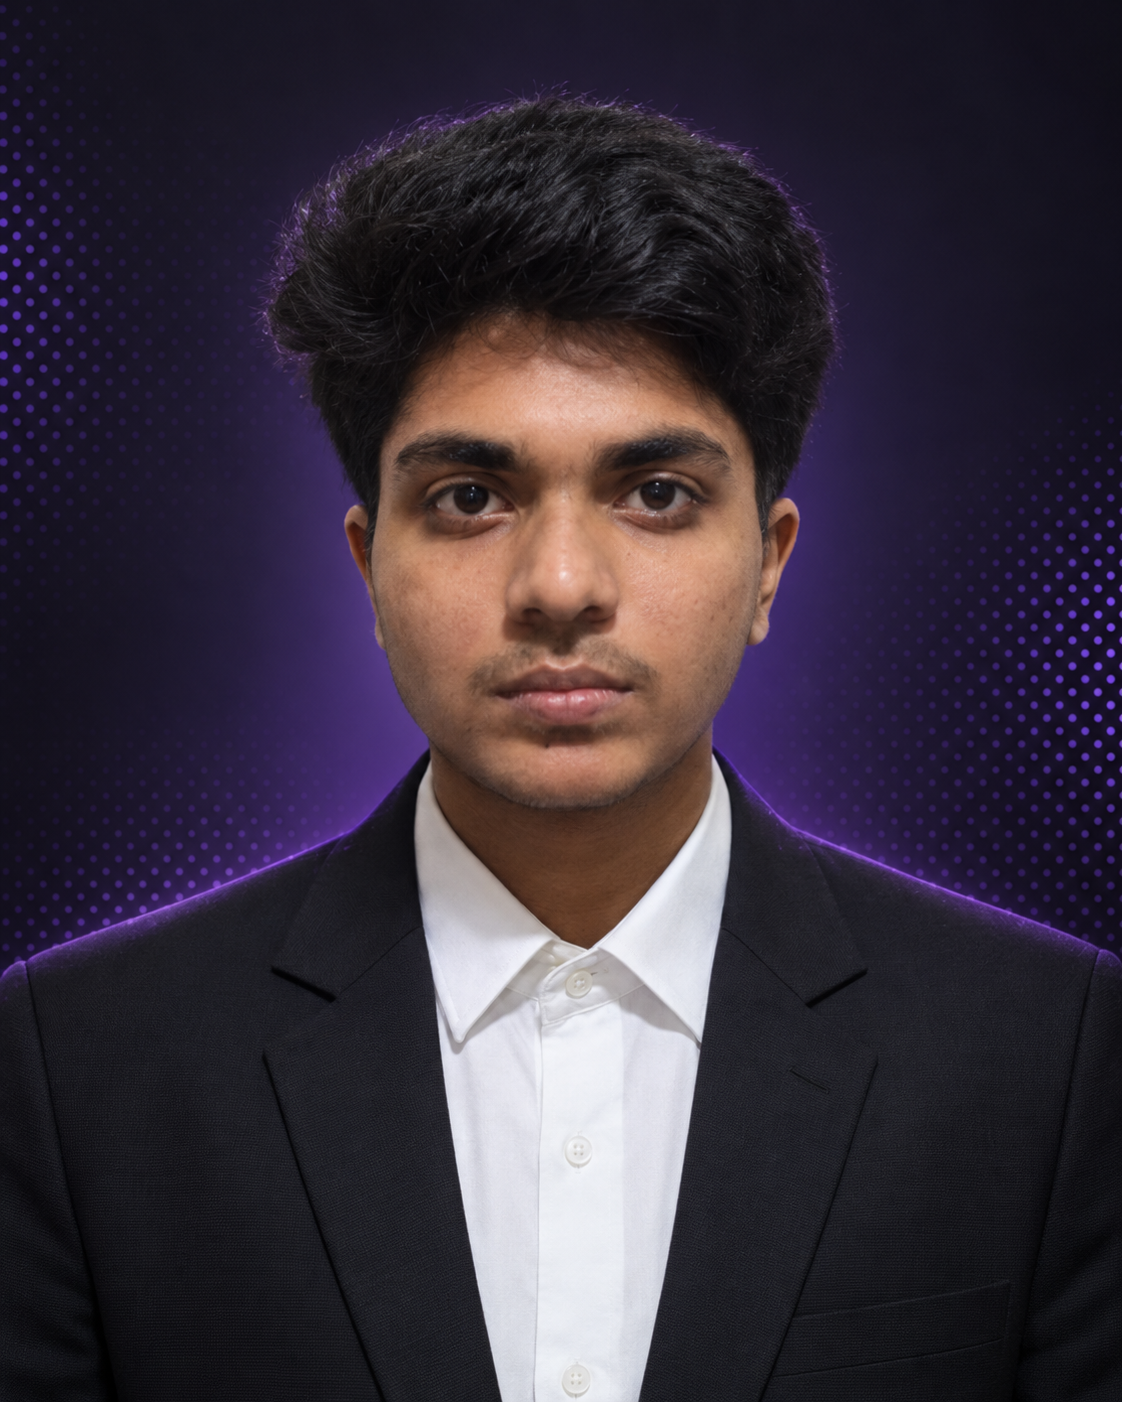
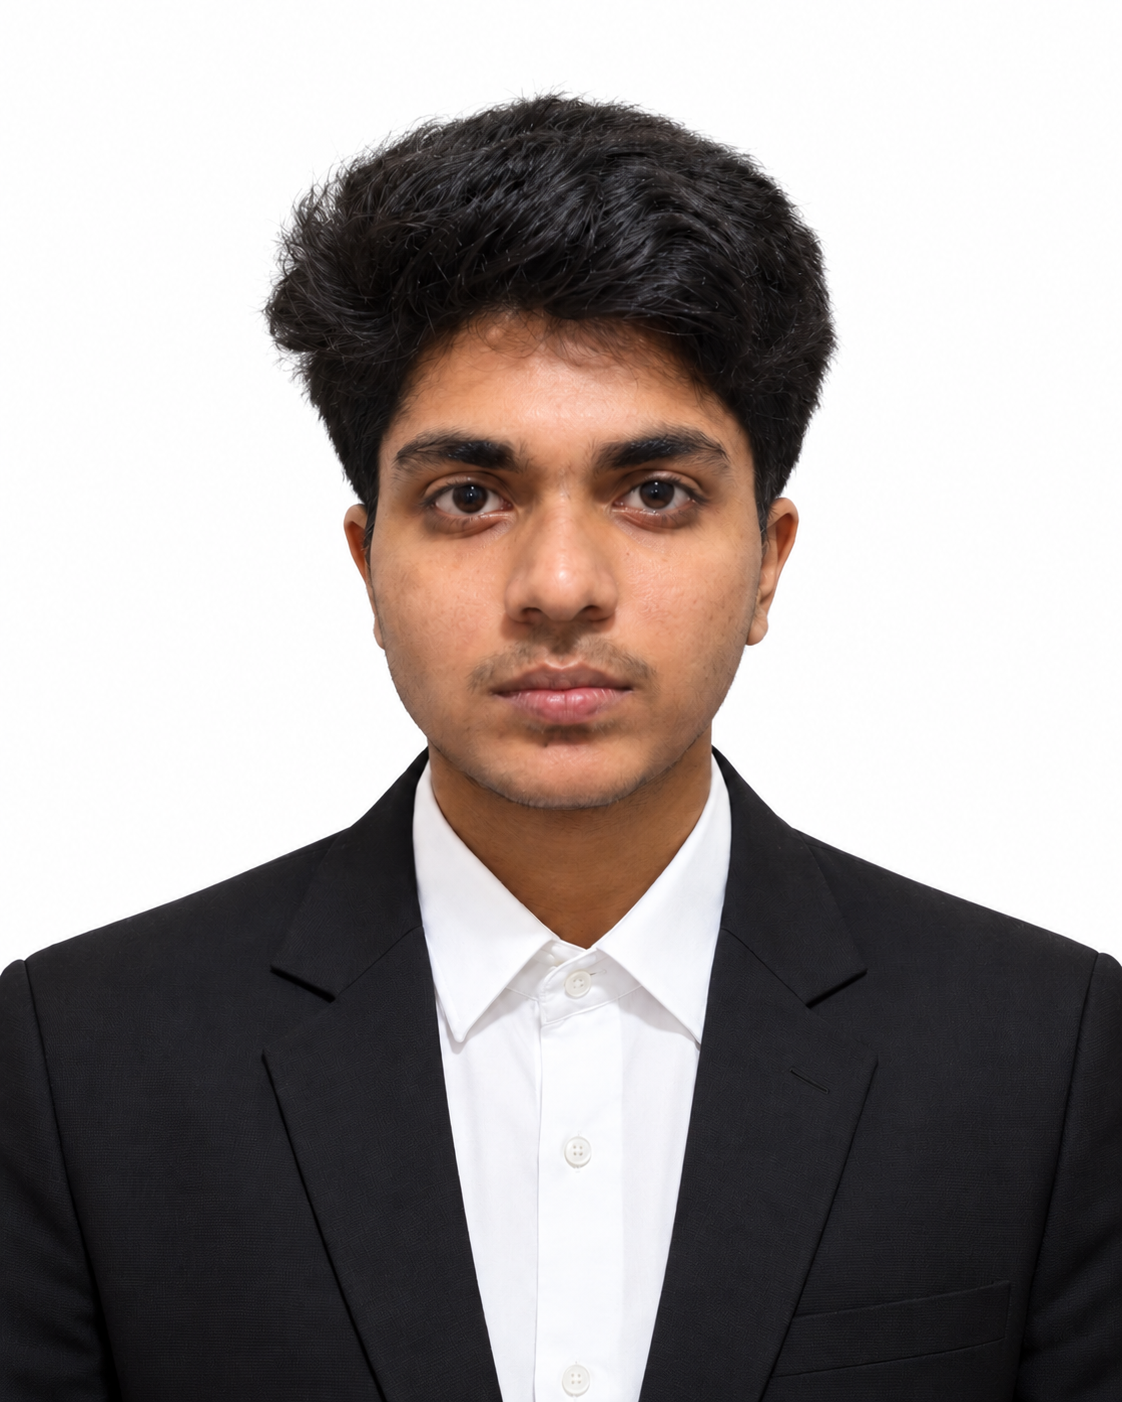
Refresh profile with starlight theme and current public projects

diff --git a/scripts/render_galaxy.py b/scripts/render_galaxy.py
@@ -1,0 +1,27 @@
+"""Export the generated galaxy as a GitHub avatar and a seamless README loop."""
+from pathlib import Path
+from math import sin, tau
+from PIL import Image, ImageEnhance
+
+assets = Path(__file__).resolve().parents[1] / "assets"
+source = Image.open(assets / "galaxy.png").convert("RGB")
+assert source.width == source.height, "Galaxy source must be square"
+source.resize((500, 500), Image.Resampling.LANCZOS).save(
+    assets / "galaxy-avatar.jpg", quality=94, optimize=True
+)
+assert (assets / "galaxy-avatar.jpg").stat().st_size < 1_000_000
+
+# Keep the star field inside the frame throughout a full rotation.
+canvas = Image.new("RGB", (360, 360), "black")
+canvas.paste(source.resize((270, 270), Image.Resampling.LANCZOS), (45, 45))
+frames = []
+for index in range(120):
+    frame = canvas.rotate(-3 * index, Image.Resampling.BICUBIC, fillcolor="black")
+    frame = ImageEnhance.Brightness(frame).enhance(1 + 0.06 * sin(tau * index / 60))
+    frames.append(frame.resize((280, 280), Image.Resampling.LANCZOS))
+frames[0].save(assets / "galaxy-spin.gif", save_all=True,
+               append_images=frames[1:], duration=100, loop=0, optimize=True)
+with Image.open(assets / "galaxy-spin.gif") as animation:
+    assert animation.n_frames == 120 and animation.info["loop"] == 0
+    assert animation.size == (280, 280)
+print("Verified: 500px avatar under 1 MB; 120-frame, 12-second looping galaxy")

diff --git a/README.md b/README.md
@@ -1,134 +1,103 @@
-<!-- ═══════════════════════ HEADER ═══════════════════════ -->
-<picture>
-  <source media="(prefers-color-scheme: dark)" srcset="https://capsule-render.vercel.app/api?type=waving&color=0:0D0117%2C45:3C096C%2C75:7B2FF7%2C100:C77DFF&height=230&section=header&text=LOKTRISHAL%20K&fontSize=62&fontColor=F3E8FF&fontAlignY=36&animation=twinkling&desc=AI%20%E2%80%A2%20Data%20Science%20%E2%80%A2%20Full%20Stack&descSize=18&descAlignY=56&descAlign=50">
-  <source media="(prefers-color-scheme: light)" srcset="https://capsule-render.vercel.app/api?type=waving&color=0:F3E8FF%2C50:C77DFF%2C100:7B2FF7&height=230&section=header&text=LOKTRISHAL%20K&fontSize=62&fontColor=240046&fontAlignY=36&animation=twinkling&desc=AI%20%E2%80%A2%20Data%20Science%20%E2%80%A2%20Full%20Stack&descSize=18&descAlignY=56&descAlign=50">
-  <img width="100%" alt="Loktrishal K banner" src="https://capsule-render.vercel.app/api?type=waving&color=0:0D0117,45:3C096C,75:7B2FF7,100:C77DFF&height=230&section=header&text=LOKTRISHAL%20K&fontSize=62&fontColor=F3E8FF&fontAlignY=36&animation=twinkling&desc=AI%20%E2%80%A2%20Data%20Science%20%E2%80%A2%20Full%20Stack&descSize=18&descAlignY=56&descAlign=50">
-</picture>
+<p align="center">
+  <img src="./assets/hero.png" width="100%" alt="Loktrishal K — AI, Data Science and Full Stack. A luminous white spiral galaxy against deep space.">
+</p>
 
 <div align="center">
 
-<h1>Hey there, I'm Loktrishal <img src="https://media.giphy.com/media/hvRJCLFzcasrR4ia7z/giphy.gif" width="34"></h1>
+### Building intelligent systems. Making complex data useful.
 
-<a href="https://git.io/typing-svg"><img src="https://readme-typing-svg.demolab.com?font=Fira+Code&weight=600&size=22&duration=3000&pause=800&color=C77DFF&center=true&vCenter=true&width=620&lines=AI+%26+Data+Science+Engineer+%F0%9F%A4%96;Data+Visualization+%26+Analytical+Modeling+%F0%9F%93%8A;Full+Stack+Developer+%F0%9F%8C%90;Building+intelligent%2C+data-driven+systems+%E2%9A%A1;Arise.+Level+up.+Repeat.+%F0%9F%94%A5" alt="Typing SVG" /></a>
+AI & Data Science Engineer · Full Stack Developer · Chennai, India
 
-<br/>
+[Portfolio](https://loktrishal-portfolio.vercel.app) · [LinkedIn](https://www.linkedin.com/in/loktrishal-k-230294376/) · [Email](mailto:loktrishal.k@gmail.com)
 
-<a href="https://github.com/loktrishal-05?tab=followers"><img src="https://img.shields.io/github/followers/loktrishal-05?label=Followers&style=for-the-badge&logo=github&color=7B2FF7&labelColor=0D0117" /></a>
-<a href="https://github.com/loktrishal-05?tab=repositories"><img src="https://img.shields.io/github/stars/loktrishal-05?label=Stars&style=for-the-badge&logo=apachespark&logoColor=white&color=9D4EDD&labelColor=0D0117" /></a>
-<img src="https://komarev.com/ghpvc/?username=loktrishal-05&label=Profile%20Views&style=for-the-badge&color=C77DFF&labelColor=0D0117" />
-<img src="https://img.shields.io/badge/Chennai-India-E0AAFF?style=for-the-badge&logo=googlemaps&logoColor=white&labelColor=0D0117" />
+<a href="https://github.com/loktrishal-05?tab=repositories"><img src="https://img.shields.io/badge/Explore_my_work-0B1018?style=for-the-badge&logo=github&logoColor=F1F5F9" alt="Explore my repositories"></a>
+<a href="https://github.com/loktrishal-05?tab=followers"><img src="https://img.shields.io/github/followers/loktrishal-05?label=Followers&style=for-the-badge&color=7DD3FC&labelColor=0B1018" alt="GitHub followers"></a>
 
 </div>
 
-<!-- ═══════════════════════ ABOUT ═══════════════════════ -->
-## <img src="https://media.giphy.com/media/VgCDAzcKvsR6OM0uWg/giphy.gif" width="28"> About Me
+---
+
+## About me
 
 <table>
 <tr>
-<td width="65%" valign="top">
+<td width="70%" valign="top">
 
-```python
-class Loktrishal:
-    role       = "AI & Data Science Engineer"
-    location   = "Chennai, India 🇮🇳"
-    focus      = ["Machine Learning", "Data Visualization", "Full Stack"]
-    building   = ["Unara — privacy-first safety detection",
-                  "SnapWorkflow — dev workflow automation"]
-    toolkit    = ["Python", "TypeScript", "Flutter", "Power BI"]
-    motto      = "Arise. Build. Ship. Repeat."
-```
+I build AI-powered applications that connect models, data and usable interfaces. My work spans healthcare demos, agricultural agents, scientific data analysis and evidence-based decision support.
 
-- 🤖 Turning raw data into **intelligent, data-driven systems**
-- 📊 Deep into **data visualization & analytical modeling**
-- 🌐 Shipping **full stack** apps — from edge devices to dashboards
-- 🔐 Interested in **privacy-first & secure** system design
-- ⚡ Fun fact: I level up one commit at a time
+- **AI & data:** machine learning, computer vision, analytical modeling and visualization.
+- **Full stack:** Python APIs, TypeScript interfaces and database-backed applications.
+- **Engineering focus:** privacy, traceable evidence and human oversight.
+- **Recent public work:** KinSight, Solarda and ExoDetect.
+
+I care about making systems understandable: what the model knows, where the data came from, and when a person should make the decision.
 
 </td>
-<td width="35%" align="center" valign="middle">
-
-<img src="./assets/portrait.png" alt="Portrait of Loktrishal K with a subtle purple halftone background" width="100%">
-
+<td width="30%" align="center" valign="middle">
+<img src="./assets/portrait.png" width="100%" alt="Loktrishal K in a black suit and white shirt against a clean white background">
 </td>
 </tr>
 </table>
 
-<!-- ═══════════════════════ TECH STACK ═══════════════════════ -->
-## <img src="https://media.giphy.com/media/iY8CRBdQXODJSCERIr/giphy.gif" width="28"> Tech Stack
+## Selected work
 
-<div align="center">
-
-**Languages & Frameworks**
-
-<img src="https://skillicons.dev/icons?i=python,ts,js,html,css,dart,flutter,react,nextjs,nodejs,tailwind,threejs&theme=dark&perline=12" />
-
-**AI · Data · ML**
-
-<img src="https://skillicons.dev/icons?i=tensorflow,pytorch,sklearn,opencv,fastapi,flask&theme=dark" />
-<br/>
-<img src="https://img.shields.io/badge/Power%20BI-F2C811?style=for-the-badge&logo=powerbi&logoColor=black" />
-<img src="https://img.shields.io/badge/Pandas-150458?style=for-the-badge&logo=pandas&logoColor=white" />
-<img src="https://img.shields.io/badge/NumPy-013243?style=for-the-badge&logo=numpy&logoColor=white" />
-<img src="https://img.shields.io/badge/Jupyter-F37626?style=for-the-badge&logo=jupyter&logoColor=white" />
-<img src="https://img.shields.io/badge/Gemini%20AI-8E75B2?style=for-the-badge&logo=googlegemini&logoColor=white" />
-
-**Databases · Cloud · Tools**
-
-<img src="https://skillicons.dev/icons?i=supabase,firebase,postgres,mysql,mongodb,docker,vercel,git,github,githubactions,vscode,figma&theme=dark&perline=12" />
-
-</div>
-
-<!-- ═══════════════════════ PROJECTS ═══════════════════════ -->
-## <img src="https://media.giphy.com/media/WUlplcMpOCEmTGBtBW/giphy.gif" width="28"> Featured Projects
-
-<div align="center">
-
-| Project | What it does | Stack |
+| Project | Focus | Technologies |
 |:--|:--|:--|
-| 🛡 [**Unara**](https://github.com/loktrishal-05/unara) | Passive, privacy-first safety detection — edge + backend + dashboard + SOS app | ![Python](https://img.shields.io/badge/-Python-0D0117?logo=python&logoColor=C77DFF) |
-| ⚙ [**SnapWorkflow**](https://github.com/loktrishal-05/SnapWorkflow-backup) | Flutter app + Python daemon & CLI for workflow automation | ![Flutter](https://img.shields.io/badge/-Flutter-0D0117?logo=flutter&logoColor=C77DFF) |
-| 🏥 [**Sri Ambal Healthcare**](https://github.com/loktrishal-05/sri-ambal-healthcare) | Hospital SPA — appointments (Supabase), Gemini chatbot, WhatsApp confirmations | ![HTML](https://img.shields.io/badge/-HTML-0D0117?logo=html5&logoColor=C77DFF) |
-| 💳 [**SentinelPay**](https://github.com/loktrishal-05/sentinelpay) | Secure payments experience | ![TS](https://img.shields.io/badge/-TypeScript-0D0117?logo=typescript&logoColor=C77DFF) |
-| 🎓 [**EduNova**](https://github.com/loktrishal-05/EduNova) | Next-gen learning platform | ![TS](https://img.shields.io/badge/-TypeScript-0D0117?logo=typescript&logoColor=C77DFF) |
-| ✨ [**Portfolio**](https://github.com/loktrishal-05/loktrishal-portfolio) | 3D personal portfolio — Three.js + GSAP | ![Three.js](https://img.shields.io/badge/-Three.js-0D0117?logo=threedotjs&logoColor=C77DFF) |
+| [**KinSight**](https://github.com/loktrishal-05/kinsight) | Multilingual inherited-risk education and genetic-counselling navigation, built as a fictional healthcare demo. | Next.js · TypeScript |
+| [**Solarda**](https://github.com/loktrishal-05/Solar-Da) | Safety-gated farm agents, plant-disease vision and forecasting using replayed sensor data. | TypeScript · Python · Gemini |
+| [**ExoDetect**](https://github.com/loktrishal-05/exoplanet-detection) | Exoplanet candidate detection from noisy Kepler light curves for ISRO BAH 2026. | Python · XGBoost · ONNX |
+| [**Legal & Regulatory Assurance**](https://github.com/loktrishal-05/legal-compliance-regulatory-workbench) | Contract intelligence, regulatory change and evidence-bearing compliance workflows in development. | FastAPI · React · PostgreSQL |
+| [**eRTMAC-NWIS**](https://github.com/loktrishal-05/ertmac-nwis) | Nearby-well intelligence and advisory drilling support, demonstrated on synthetic data. | FastAPI · React · PostGIS · LangGraph |
+| [**Portfolio**](https://github.com/loktrishal-05/loktrishal-portfolio) | An interactive collection of my engineering and design work. | Three.js · GSAP · JavaScript |
 
-</div>
-
-<!-- ═══════════════════════ STATS ═══════════════════════ -->
-## <img src="https://media.giphy.com/media/fwbZnTftCXVocKzfxR/giphy.gif" width="28"> GitHub Analytics
+## Tools I work with
 
 <div align="center">
 
-<img height="170" src="https://github-readme-stats.vercel.app/api?username=loktrishal-05&show_icons=true&hide_border=true&bg_color=0D0117&title_color=C77DFF&icon_color=9D4EDD&text_color=E0AAFF&ring_color=C77DFF&rank_icon=github" />
-<img height="170" src="https://github-readme-stats.vercel.app/api/top-langs/?username=loktrishal-05&layout=compact&hide_border=true&bg_color=0D0117&title_color=C77DFF&text_color=E0AAFF&langs_count=8" />
+**Languages & interfaces**
 
-<img width="80%" src="https://streak-stats.demolab.com?user=loktrishal-05&hide_border=true&background=0D0117&ring=C77DFF&fire=9D4EDD&currStreakLabel=C77DFF&sideLabels=E0AAFF&currStreakNum=F3E8FF&sideNums=F3E8FF&dates=7B6A9B&stroke=3C096C" alt="GitHub Streak" />
+<img src="https://skillicons.dev/icons?i=python,ts,js,react,nextjs,tailwind,flutter&theme=dark&perline=7" alt="Python, TypeScript, JavaScript, React, Next.js, Tailwind CSS and Flutter">
 
-<img width="100%" src="https://raw.githubusercontent.com/loktrishal-05/loktrishal-05/output/cards/0-profile-details.svg" alt="Contribution Activity" />
+**Models, APIs & data**
 
-<!-- 3D contribution calendar — generated daily by .github/workflows/profile.yml -->
-<img width="100%" src="https://raw.githubusercontent.com/loktrishal-05/loktrishal-05/output/profile-3d-contrib/profile-purple.svg" alt="3D Contributions" />
+<img src="https://skillicons.dev/icons?i=pytorch,tensorflow,sklearn,opencv,fastapi,postgres&theme=dark&perline=6" alt="PyTorch, TensorFlow, scikit-learn, OpenCV, FastAPI and PostgreSQL">
 
-<img width="32%" src="https://raw.githubusercontent.com/loktrishal-05/loktrishal-05/output/cards/1-repos-per-language.svg" />
-<img width="32%" src="https://raw.githubusercontent.com/loktrishal-05/loktrishal-05/output/cards/2-most-commit-language.svg" />
-<img width="32%" src="https://raw.githubusercontent.com/loktrishal-05/loktrishal-05/output/cards/4-productive-time.svg" />
+**Delivery & visualization**
+
+<img src="https://skillicons.dev/icons?i=docker,git,githubactions,vercel,supabase&theme=dark&perline=5" alt="Docker, Git, GitHub Actions, Vercel and Supabase">
+
+<img src="https://img.shields.io/badge/Power_BI-F2C811?style=flat-square&logoColor=111827" alt="Power BI">
+<img src="https://img.shields.io/badge/Pandas-7DD3FC?style=flat-square&logo=pandas&logoColor=0B1018" alt="Pandas">
+<img src="https://img.shields.io/badge/NumPy-99F6E4?style=flat-square&logo=numpy&logoColor=0B1018" alt="NumPy">
 
 </div>
 
-<!-- ═══════════════════════ SNAKE ═══════════════════════ -->
-## <img src="https://media.giphy.com/media/LMt9638dO8dftAjtco/giphy.gif" width="28"> Contribution Snake
+## Engineering activity
 
-<!-- Generated by Platane/snk in .github/workflows/profile.yml (runs daily + on push) -->
-<div align="center">
-  <picture>
-    <source media="(prefers-color-scheme: dark)" srcset="https://raw.githubusercontent.com/loktrishal-05/loktrishal-05/output/github-snake-dark.svg" />
-    <source media="(prefers-color-scheme: light)" srcset="https://raw.githubusercontent.com/loktrishal-05/loktrishal-05/output/github-snake.svg" />
-    <img alt="Contribution snake" src="https://raw.githubusercontent.com/loktrishal-05/loktrishal-05/output/github-snake-dark.svg" />
-  </picture>
-</div>
+<p align="center">
+  <img src="https://raw.githubusercontent.com/loktrishal-05/loktrishal-05/output/cards/0-profile-details.svg" width="100%" alt="GitHub contribution activity">
+  <img src="https://raw.githubusercontent.com/loktrishal-05/loktrishal-05/output/cards/1-repos-per-language.svg" width="32%" alt="Repositories by language">
+  <img src="https://raw.githubusercontent.com/loktrishal-05/loktrishal-05/output/cards/2-most-commit-language.svg" width="32%" alt="Languages by commits">
+  <img src="https://raw.githubusercontent.com/loktrishal-05/loktrishal-05/output/cards/4-productive-time.svg" width="32%" alt="Commits by time of day">
+</p>
 
-<!-- ═══════════════════════ ACTIVITY ═══════════════════════ -->
-## ⚡ Recent Activity
+<details>
+<summary>Explore the contribution calendar</summary>
+
+<p align="center">
+  <img src="https://raw.githubusercontent.com/loktrishal-05/loktrishal-05/output/profile-3d-contrib/profile-starlight.svg" width="100%" alt="Three-dimensional contribution calendar in ice blue and white">
+</p>
+
+<picture>
+  <source media="(prefers-color-scheme: dark)" srcset="https://raw.githubusercontent.com/loktrishal-05/loktrishal-05/output/github-snake-dark.svg">
+  <source media="(prefers-color-scheme: light)" srcset="https://raw.githubusercontent.com/loktrishal-05/loktrishal-05/output/github-snake.svg">
+  <img src="https://raw.githubusercontent.com/loktrishal-05/loktrishal-05/output/github-snake-dark.svg" width="100%" alt="Animated contribution snake">
+</picture>
+
+</details>
+
+<details>
+<summary>Recent public activity</summary>
 
 <!--START_SECTION:activity-->
 1. 🎉 Merged PR [#78](https://github.com/Harsha-code-per/Cadence/pull/78) in [Harsha-code-per/Cadence](https://github.com/Harsha-code-per/Cadence)
@@ -138,20 +107,14 @@ class Loktrishal:
 5. 🎉 Merged PR [#73](https://github.com/Harsha-code-per/Cadence/pull/73) in [Harsha-code-per/Cadence](https://github.com/Harsha-code-per/Cadence)
 <!--END_SECTION:activity-->
 
-<!-- ═══════════════════════ CONNECT ═══════════════════════ -->
-## <img src="https://media.giphy.com/media/QssGEmpkyEOhBCb7e1/giphy.gif" width="28"> Connect With Me
+</details>
+
+---
 
 <div align="center">
+<img src="./assets/galaxy-spin.gif" width="180" alt="A luminous white spiral galaxy rotating slowly through space">
 
-<a href="https://www.linkedin.com/in/loktrishal-k-230294376/"><img src="https://img.shields.io/badge/LinkedIn-0D0117?style=for-the-badge&logo=linkedin&logoColor=C77DFF" /></a>
-<a href="https://x.com/YOUR_X_HANDLE"><img src="https://img.shields.io/badge/X-0D0117?style=for-the-badge&logo=x&logoColor=C77DFF" /></a>
-<a href="https://instagram.com/YOUR_INSTAGRAM"><img src="https://img.shields.io/badge/Instagram-0D0117?style=for-the-badge&logo=instagram&logoColor=C77DFF" /></a>
-<a href="https://tiktok.com/@YOUR_TIKTOK"><img src="https://img.shields.io/badge/TikTok-0D0117?style=for-the-badge&logo=tiktok&logoColor=C77DFF" /></a>
-<a href="https://youtube.com/@YOUR_YOUTUBE"><img src="https://img.shields.io/badge/YouTube-0D0117?style=for-the-badge&logo=youtube&logoColor=C77DFF" /></a>
-<a href="mailto:loktrishal.k@gmail.com"><img src="https://img.shields.io/badge/Email-0D0117?style=for-the-badge&logo=gmail&logoColor=C77DFF" /></a>
-<a href="https://github.com/loktrishal-05/loktrishal-portfolio"><img src="https://img.shields.io/badge/Portfolio-0D0117?style=for-the-badge&logo=threedotjs&logoColor=C77DFF" /></a>
+**Curiosity into code. Data into decisions.**
 
+[Let's connect](https://www.linkedin.com/in/loktrishal-k-230294376/) · [Explore my work](https://loktrishal-portfolio.vercel.app)
 </div>
-
-<!-- ═══════════════════════ FOOTER ═══════════════════════ -->
-<img width="100%" src="https://capsule-render.vercel.app/api?type=waving&color=0:C77DFF,55:7B2FF7,100:0D0117&height=130&section=footer&animation=twinkling" />

diff --git a/assets/README.md b/assets/README.md
@@ -1,0 +1,27 @@
+# Starlight profile assets
+
+Created with the built-in imagegen tool. Original generated files are retained outside the repository; the consumed assets live here. The galaxy artwork is an artistic interpretation, not scientific imaging.
+
+## Portrait edit prompt
+
+Use case: identity-preserve. Edit this professional portrait. Change only the background and purple lighting: replace entire purple dotted space background with pure seamless white #FFFFFF, remove every purple halo, purple rim light and violet cast from hair and jacket. Keep EXACT same face identity, facial features, natural skin texture, expression, gaze, hairstyle, black jacket, white shirt, pose and framing unchanged. Natural neutral studio lighting, realistic edges, clean professional headshot, no dots, no decorations, no text. Maintain portrait 4:5 composition and high resolution.
+
+## Galaxy avatar prompt
+
+Use case: style-transfer. Input: reference screenshot of a glowing white spiral galaxy. Create a refined cinematic square GitHub avatar inspired by this image. Deep pure black space, centered face-on Milky Way-like spiral galaxy fully inside a circular safe area occupying 75% of square. Brilliant luminous WHITE central core, elegant clearly separated curved spiral arms made of thousands of tiny sparkling white stars and silvery dust, subtle ice-blue highlights, a few bright pin-sharp diffraction sparkles, airy dark gaps. Strong visual sense of clockwise swirling rotation, not a literal motion blur. More rich star detail and depth than reference, sophisticated photorealistic astrophotography blended with crisp particle art. Dominantly glowing WHITE on BLACK, no purple, no text, no icons, no frame, no screenshot borders. Symmetric square 1024x1024 with dark corners suitable for circular profile crop.
+
+## Hero prompt
+
+Create a finished ultra-wide cinematic GitHub profile hero banner, 3:1 aspect ratio approximately 1536x512. Premium editorial design for Loktrishal K, AI and full stack engineer. Near black charcoal #0B1018 space background. Right half: stunning luminous WHITE spiral galaxy seen obliquely, silver stardust, subtle ice blue star highlights, elegant orbital light arcs, refined cinematic depth. Left half: generous quiet negative space with beautifully typeset clear typography, text exactly 'LOKTRISHAL K' in large white modern sans serif, and below in smaller tracked pale silver type 'AI / DATA SCIENCE / FULL STACK'. A short hairline of ice blue above the name. All text within central 85% of image; type large enough to read in a GitHub README. Restrained, confident, polished, premium, masterful composition. Glowing white is dominant accent; no purple, no neon rainbow, no logos, no extra words, no fake interface panels, no watermark. Galaxy and stardust must not interfere with name. Flat rectangular image no rounded mockup frame.
+
+## Exports
+
+`python scripts/render_galaxy.py` creates `galaxy-avatar.jpg` (500 × 500, under 1 MB) and `galaxy-spin.gif` (120 frames, 12-second seamless clockwise loop) from `galaxy.png`. Requires Pillow. The JPEG is the upload-ready account avatar; the GIF is used in the README. Account avatar changes require a separate upload in GitHub profile settings and are not applied by a git push.
+
+## Sources
+
+- [GitHub profile picture requirements](https://docs.github.com/en/account-and-profile/reference/profile-reference)
+- [GitHub profile update API fields](https://docs.github.com/en/rest/users/users#update-the-authenticated-user)
+- [Summary card themes and workflow options](https://github.com/vn7n24fzkq/github-profile-summary-cards)
+- Project descriptions were checked against each linked public repository README on 2026-11-01.
+
